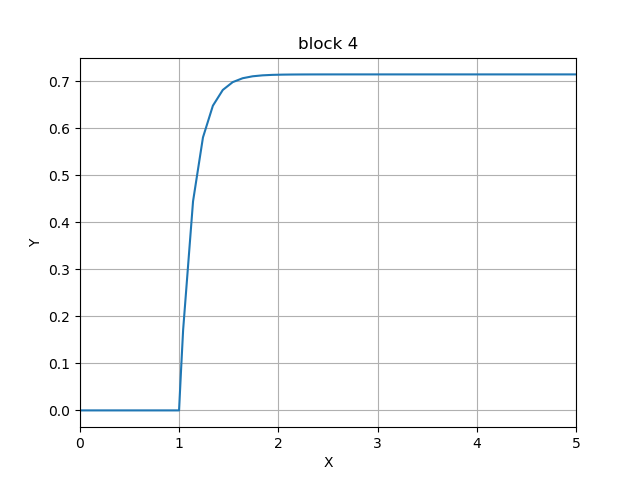
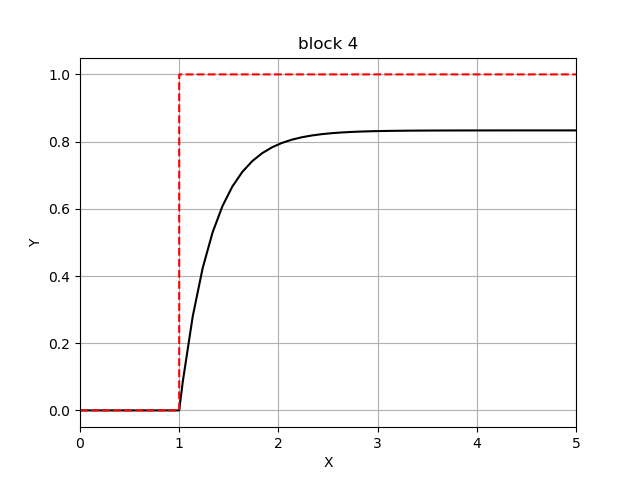
tweak example and doco

diff --git a/examples/eg1.py b/examples/eg1.py
@@ -7,17 +7,18 @@ s = bd.Simulation()
 demand = s.STEP(T=1, pos=(0,0))
 sum = s.SUM('+-', pos=(1,0))
 gain = s.GAIN(10, pos=(1.5,0))
-plant = s.LTI_SISO(0.5, [1, 2], name='plant', pos=(3,0))
-scope = s.SCOPE(pos=(4,0))
+plant = s.LTI_SISO(0.5, [2, 1], name='plant', pos=(3,0))
+#scope = s.SCOPE(pos=(4,0), styles=[{'color': 'blue'}, {'color': 'red', 'linestyle': '--'}
+scope = s.SCOPE(style=['k', 'r--'], pos=(4,0))
 
-s.connect(demand, sum[0])
+s.connect(demand, sum[0], scope[1])
 s.connect(plant, sum[1])
 s.connect(sum, gain)
 s.connect(gain, plant)
-s.connect(plant, scope)
+s.connect(plant, scope[0])
 
 s.compile()
 
-#s.dotfile('bd1.dot')
+s.dotfile('bd1.dot')
 
 s.run(5)

diff --git a/README.md b/README.md
@@ -9,17 +9,17 @@ Consider the canonic block diagram
 which we can express concisely with `bdsim` as
 
 ```python
-demand = s.WAVEFORM(wave='square', freq=2, pos=(0,0))
+demand = s.STEP(T=1, pos=(0,0))
 sum = s.SUM('+-', pos=(1,0))
 gain = s.GAIN(2, pos=(1.5,0))
 plant = s.LTI_SISO(0.5, [1, 2], name='plant', pos=(3,0))
-scope = s.SCOPE(pos=(4,0))
+scope = s.SCOPE(style=['k', 'r--'], pos=(4,0))
     
-s.connect(demand, sum[0])
+s.connect(demand, sum[0], scope[1])
 s.connect(plant, sum[1])
 s.connect(sum, gain)
 s.connect(gain, plant)
-s.connect(plant, scope)
+s.connect(plant, scope[0])
 ```
 where the red block annotations in the diagram have become names of instances of object that represent the blocks.  
 
@@ -44,13 +44,19 @@ We can also turn into something like a real block diagram using GraphViz to prod
 s.dotfile('demo.dot')
 ```
 
-which we can turn into a graphic using `neato`
+which we can turn into a graphic using `dot` 
 
+```shell
+% dot -Tpng demo.dot demo.png
+```
+or `neato`
 ```shell
 % neato -Tpng demo.dot demo.png
 ```
 
 ![output of neato](figs/bd1.png)
+
+While this is correct, it's not quite the way we would expect the diagram to be drawn.  `dot` ignores the `pos` options on the blocks while `neato` respects them, but is prone to drawing all the lines on top of each other.
 
 Sources are shown as 3D boxes, sinks as folders, functions as boxes (apart from gains which are triangles and summing junctions which are points), and transfer functions as connectors (look's like a gate).  To create a decent looking plot you need to manually place the blocks using the `pos` argument to place them. Unit spacing in the x- and y-directions is generally sufficient. 
 
